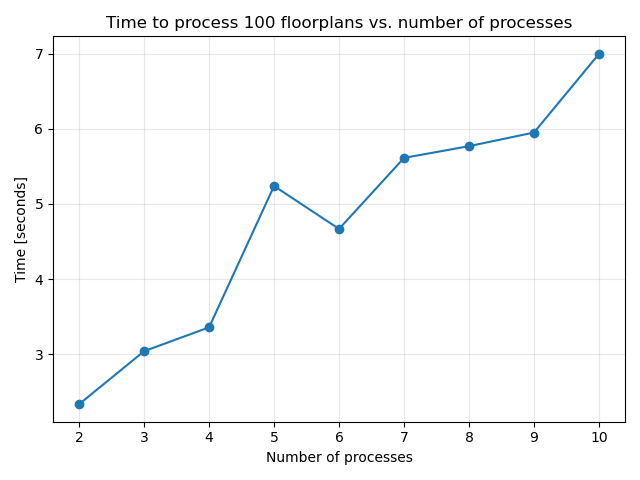
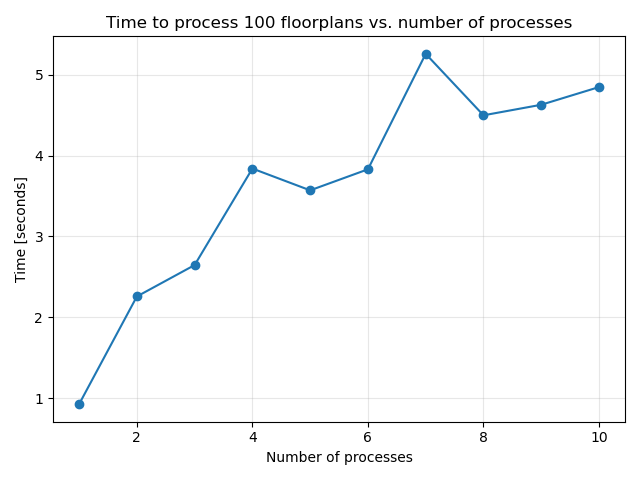
asdfghjklæ

diff --git a/PYSCRIPTS/speedup_plotting.py b/PYSCRIPTS/speedup_plotting.py
@@ -11,9 +11,9 @@ def speed_up_plot(filename):
 
     data = data[~np.isnan(data).any(axis=1)]
 
-    T1 = 2017.04
+    T1 = 1
     processes = data[:, 0]
-    times = T1 / data[:, 1]
+    times = data[:, 1]
 
     # order = np.argsort(processes)
     # processes = processes[order]
@@ -32,6 +32,9 @@ def speed_up_plot(filename):
 if __name__ == "__main__":
     filename = sys.argv[1]
     fig = speed_up_plot(filename)
-    fig.savefig(join("PLOTS/" + "speedups", f'static_speedup_plot.png'))
-    plt.close(fig)
+    # fig.savefig(join("PLOTS/" + "speedups", f'static_speedup_plot.png'))
+    # fig.show()
+    plt.show()
+    speed_up_plot(sys.argv[2])
+    plt.show()
     
